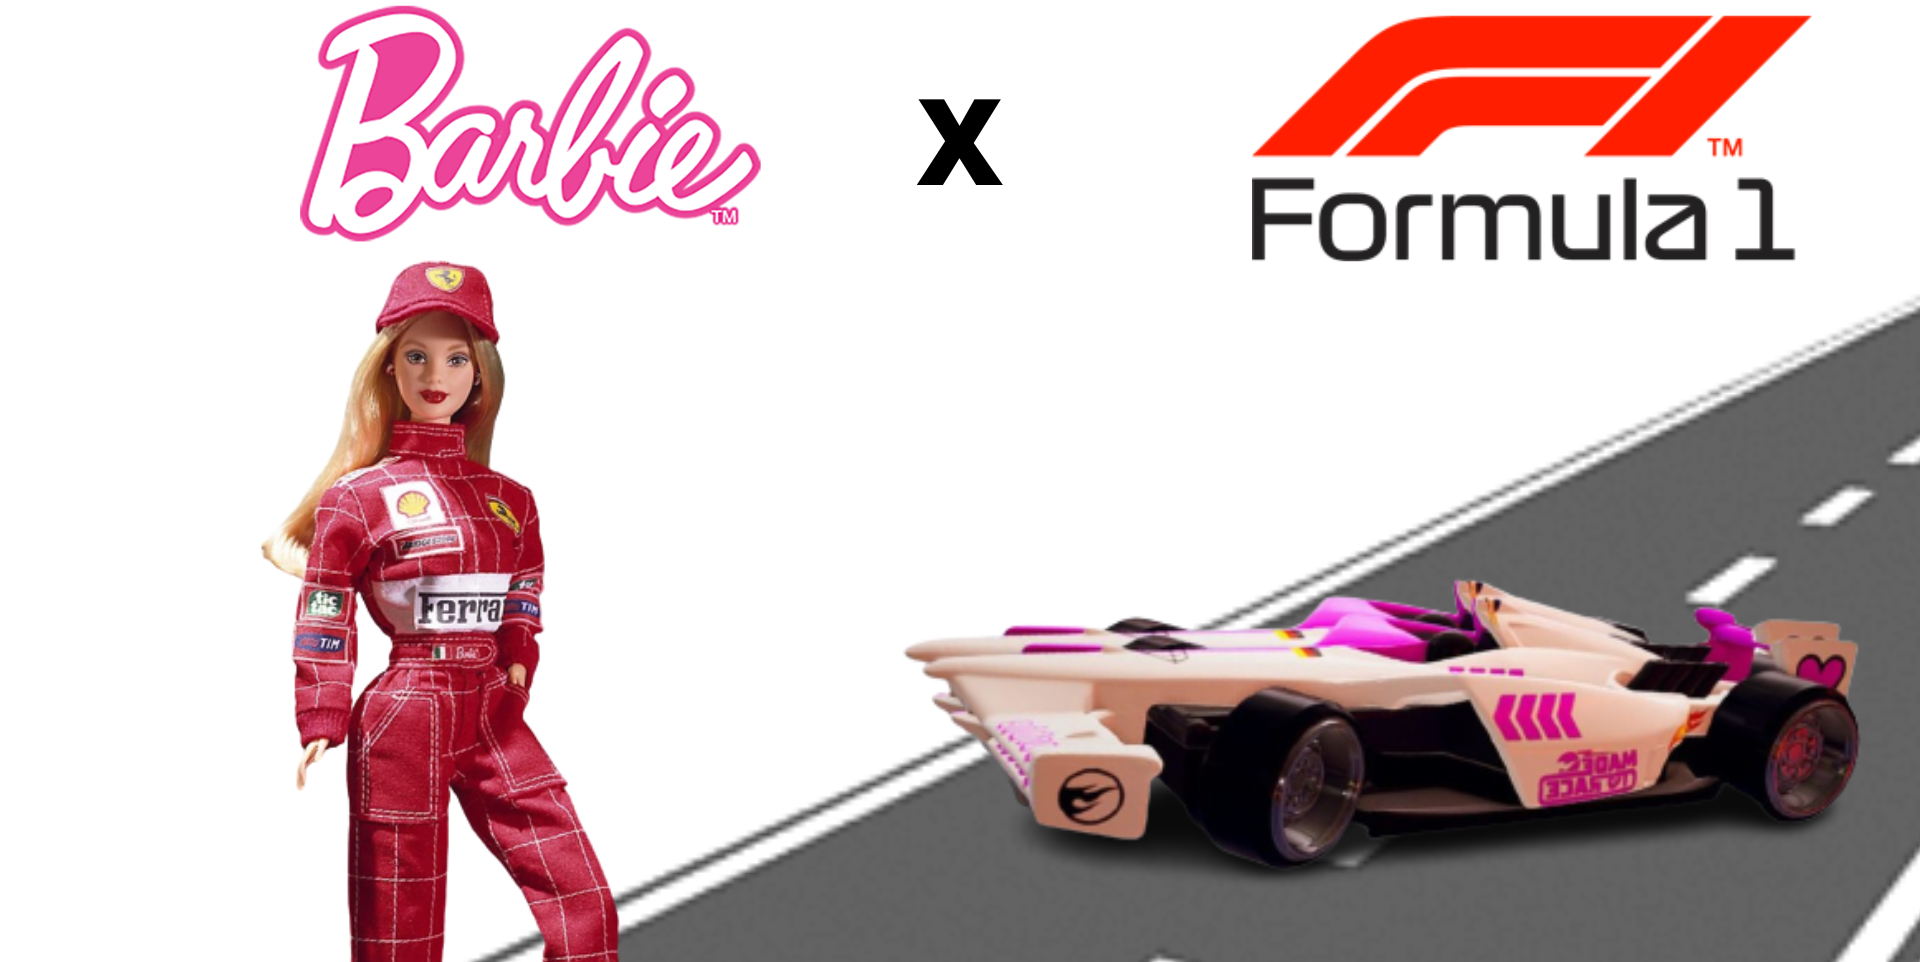
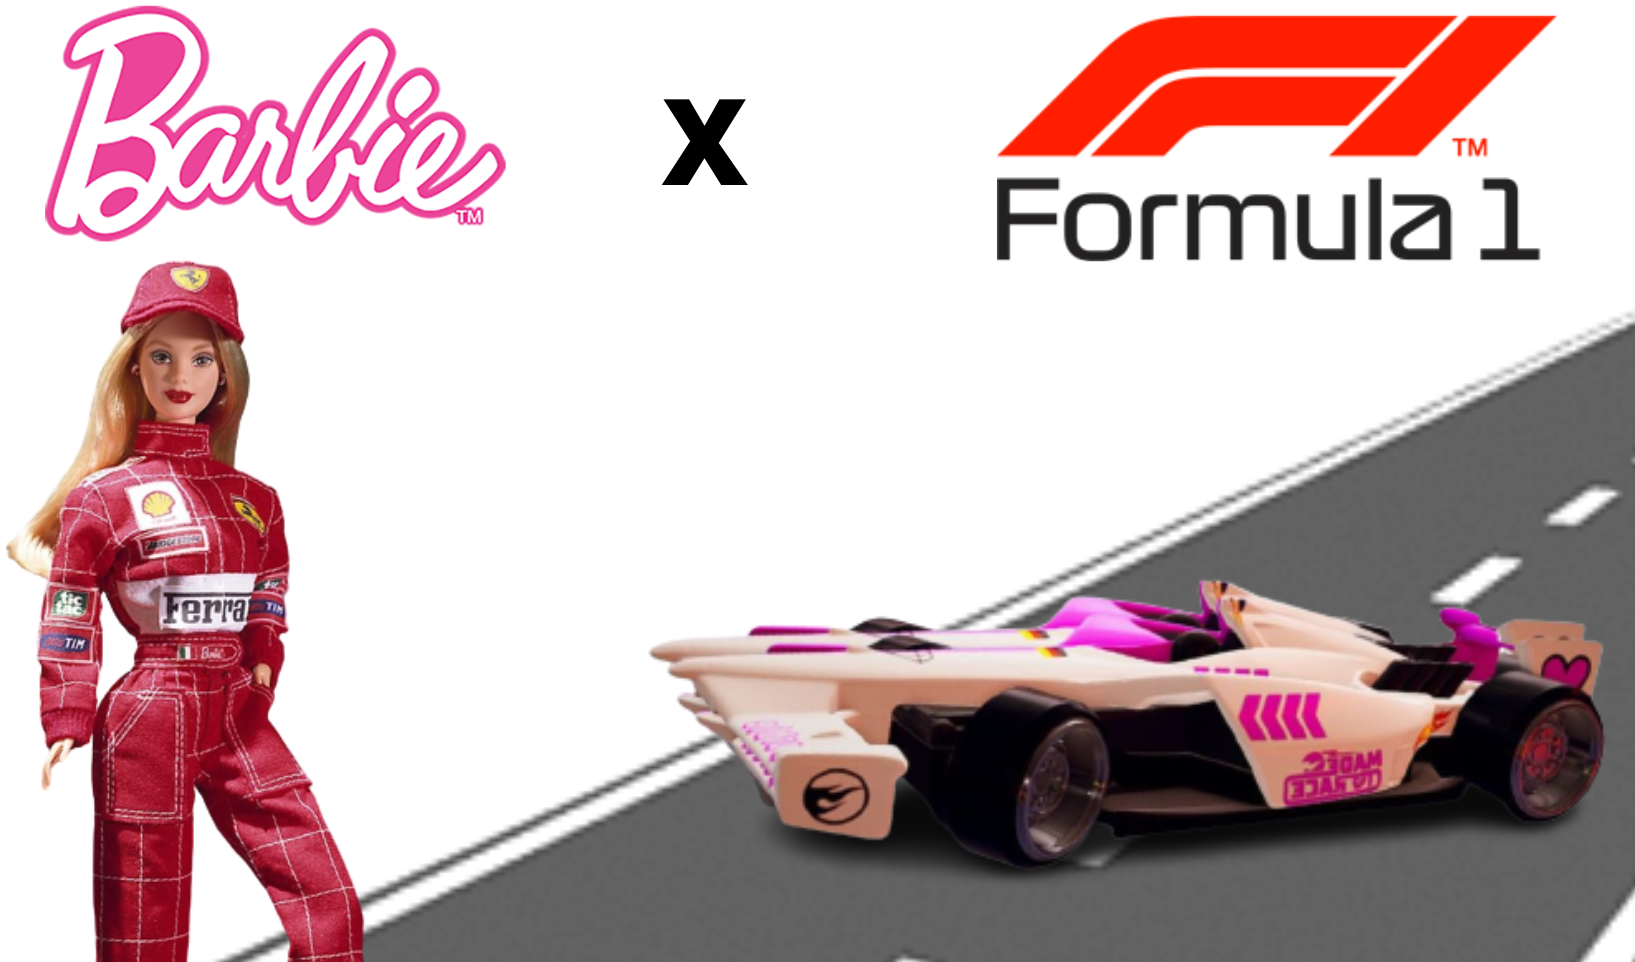
responsive

diff --git a/index.html b/index.html
@@ -14,23 +14,13 @@
 </head>
 
 <body>
-    <nav class="navbar navbar-expand-lg bg-light">
+    <nav class="navbar navbar-expand bg-light">
         <div class="container-fluid" style="height: 27px;">
             <a class="navbar-brand" href="#"><img src="img/mattel.png" style="width: 40px;"></a>
-            <button class="navbar-toggler" type="button" data-bs-toggle="collapse"
-                data-bs-target="#navbarSupportedContent" aria-controls="navbarSupportedContent" aria-expanded="false"
-                aria-label="Toggle navigation">
-                <span class="navbar-toggler-icon"></span>
-            </button>
-            <div class="collapse navbar-collapse" id="navbarSupportedContent" style="height: 20px;">
-                <ul class="navbar-nav me-auto mb-lg-0">
-
-                </ul>
-                <form class="d-flex mb-0" role="search">
-                    <input class="form-control me-2 mb-0" type="search" placeholder="Search" aria-label="Search">
-                    <button class="btn" type="submit">Search</button>
-                </form>
-            </div>
+            <form class="d-flex mb-0" role="search">
+                <input class="form-control me-2 mb-0" type="search" placeholder="Search" aria-label="Search">
+                <button class="btn" type="submit">Search</button>
+            </form>
         </div>
     </nav>
 
@@ -44,7 +34,7 @@
 
     <div class="container_rosa">
         <div class="contenido_pro">
-            <img src="img/barbieXformula1.png" width="1000px">
+            <img src="img/barbieXformula1.png" class="barbieXformula">
         </div>
     </div>
  

diff --git a/style.css b/style.css
@@ -76,3 +76,51 @@ html, body
  height: 100%;
  overflow: hidden
 }
+
+.barbieXformula{
+    width: 900px;
+}
+
+@media (max-width: 1000px) {
+    .barbieXformula{
+        width: 850px;
+    }
+}
+@media (max-width: 840px) {
+    .barbieXformula{
+        width: 750px;
+        height: 500px;
+    }
+}
+
+@media (max-width: 730px) {
+    .barbieXformula{
+        width: 650px;
+        height: 400px;
+        margin-top: 100px;
+    }
+}
+
+@media (max-width: 630px) {
+    .barbieXformula{
+        width: 550px;
+        height: 300px;
+        margin-top: 120px;
+    }
+}
+
+@media (max-width: 540px) {
+    .barbieXformula{
+        width: 450px;
+        height: 300px;
+        margin-top: 100px;
+    }
+}
+
+@media (max-width: 450px) {
+    .barbieXformula{
+        width: 400px;
+        height: 200px;
+        margin-top: 120px;
+    }
+}
